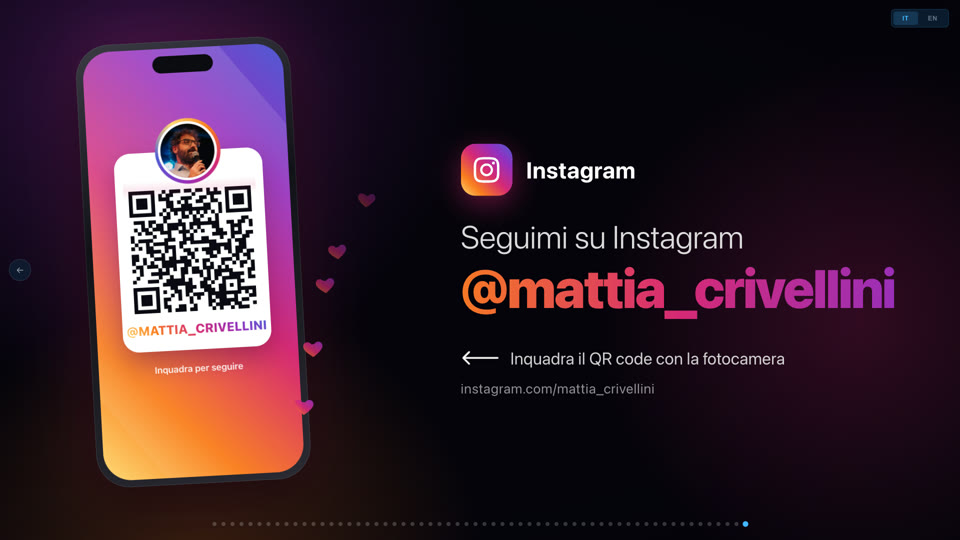
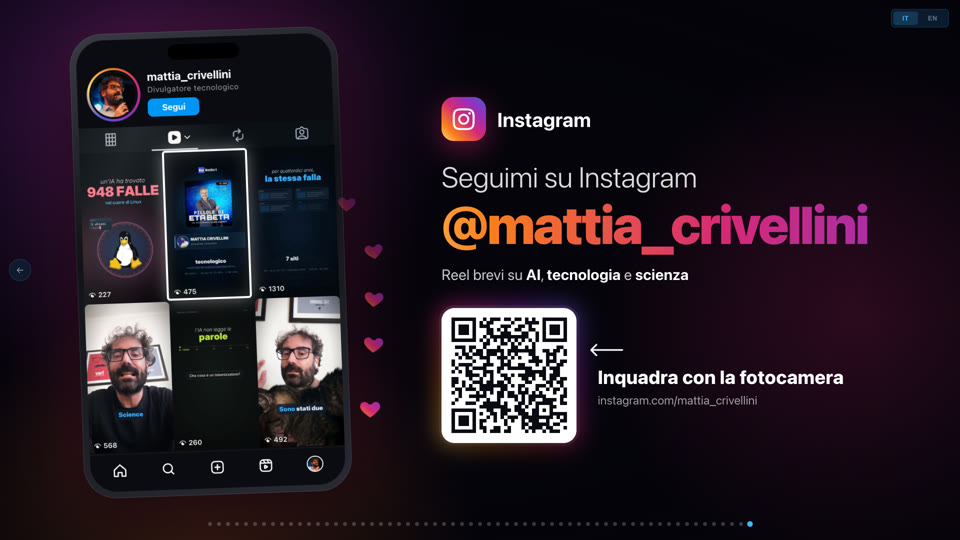
feat: slide Instagram con il profilo e i reel veri, QR code grande

diff --git a/instagram.html b/instagram.html
@@ -15,70 +15,92 @@
     /* ---------- Fondo: nebulose nei colori di Instagram che si muovono piano ---------- */
     .blob { position: fixed; border-radius: 50%; pointer-events: none; z-index: 0; opacity: 0.55; }
     .b1 { width: 70vw; height: 70vw; left: -22vw; top: -30vw; background: radial-gradient(closest-side, rgba(150,47,191,0.55), transparent); animation: drift1 22s ease-in-out infinite alternate; }
-    .b2 { width: 60vw; height: 60vw; left: -10vw; bottom: -34vw; background: radial-gradient(closest-side, rgba(250,126,30,0.45), transparent); animation: drift2 26s ease-in-out infinite alternate; }
-    .b3 { width: 55vw; height: 55vw; right: -18vw; top: 10vh; background: radial-gradient(closest-side, rgba(214,41,118,0.42), transparent); animation: drift3 24s ease-in-out infinite alternate; }
+    .b2 { width: 60vw; height: 60vw; left: -10vw; bottom: -34vw; background: radial-gradient(closest-side, rgba(250,126,30,0.42), transparent); animation: drift2 26s ease-in-out infinite alternate; }
+    .b3 { width: 55vw; height: 55vw; right: -18vw; top: 10vh; background: radial-gradient(closest-side, rgba(214,41,118,0.40), transparent); animation: drift3 24s ease-in-out infinite alternate; }
     @keyframes drift1 { to { transform: translate(8vw, 10vh) scale(1.1); } }
     @keyframes drift2 { to { transform: translate(10vw, -8vh) scale(0.92); } }
     @keyframes drift3 { to { transform: translate(-8vw, 6vh) scale(1.12); } }
-    .grain { position: fixed; inset: 0; z-index: 0; pointer-events: none; opacity: 0.5;
+    .vignette { position: fixed; inset: 0; z-index: 0; pointer-events: none;
       background: radial-gradient(120% 90% at 30% 50%, transparent 40%, rgba(5,3,11,0.85) 100%); }
 
-    /* ---------- Telefono con la schermata «QR code» del profilo ---------- */
-    .stage { position: fixed; z-index: 2; left: 9vw; top: 50%; transform: translateY(-50%); height: 82vh; aspect-ratio: 9 / 18.6; }
-    .phone { position: absolute; inset: 0; border-radius: 6.2vh; padding: 1.25vh;
+    /* ---------- Telefono con il profilo e i reel veri ---------- */
+    .stage { position: fixed; z-index: 2; left: 8vw; top: 50%; transform: translateY(-50%); height: 86vh; aspect-ratio: 9 / 15.6; }
+    .phone { position: absolute; inset: 0; border-radius: 6vh; padding: 1.2vh;
       background: linear-gradient(160deg, #3a3a44, #121218 40%, #2a2a33);
-      box-shadow: 0 4vh 10vh rgba(0,0,0,0.6), 0 0 0 1px rgba(255,255,255,0.12) inset, 0 0 12vh rgba(214,41,118,0.28);
+      box-shadow: 0 4vh 10vh rgba(0,0,0,0.6), 0 0 0 1px rgba(255,255,255,0.12) inset, 0 0 14vh rgba(214,41,118,0.30);
       animation: phoneIn 1.4s var(--ease) both, float 7s ease-in-out 1.4s infinite; }
-    @keyframes phoneIn { from { opacity: 0; transform: translateY(8vh) rotate(-8deg) scale(0.92); } to { opacity: 1; transform: rotate(-4deg); } }
-    @keyframes float { 0%, 100% { transform: rotate(-4deg) translateY(0); } 50% { transform: rotate(-3deg) translateY(-1.6vh); } }
-    .screen { position: relative; width: 100%; height: 100%; border-radius: 5.2vh; overflow: hidden; background: var(--ig);
-      display: flex; flex-direction: column; align-items: center; justify-content: center; }
-    .screen::before { content: ''; position: absolute; inset: -30%; background: conic-gradient(from 0deg, rgba(255,255,255,0.0), rgba(255,255,255,0.18), rgba(255,255,255,0)); animation: spin 14s linear infinite; }
-    .notch { position: absolute; top: 1.4vh; left: 50%; transform: translateX(-50%); width: 30%; height: 3.2vh; border-radius: 2vh; background: #0b0b10; z-index: 3; }
-    .card { position: relative; z-index: 2; width: 74%; background: #fff; border-radius: 3vh; padding: 7vh 2.4vh 2.6vh;
-      display: flex; flex-direction: column; align-items: center; box-shadow: 0 2vh 5vh rgba(60,0,60,0.35);
-      animation: cardIn 1s var(--ease) 0.7s both; }
-    @keyframes cardIn { from { opacity: 0; transform: translateY(3vh) scale(0.94); } to { opacity: 1; transform: none; } }
-    .avatar { position: absolute; top: -5.5vh; left: 50%; transform: translateX(-50%); width: 11vh; height: 11vh; border-radius: 50%; }
-    .avatar::before { content: ''; position: absolute; inset: -0.55vh; border-radius: 50%; background: conic-gradient(var(--ig1), var(--ig2), var(--ig3), var(--ig4), var(--ig5), var(--ig1)); animation: spin 6s linear infinite; }
-    .avatar img { position: relative; width: 100%; height: 100%; border-radius: 50%; object-fit: cover; border: 0.5vh solid #fff; display: block; box-sizing: border-box; }
-    .qr { position: relative; width: 100%; aspect-ratio: 1; }
-    .qr img { width: 100%; height: 100%; display: block; image-rendering: pixelated; }
-    .qr .scan { position: absolute; left: -4%; right: -4%; height: 14%; top: 0;
-      background: linear-gradient(180deg, rgba(214,41,118,0), rgba(214,41,118,0.14) 50%, rgba(214,41,118,0));
-      animation: scan 3.2s ease-in-out 2s infinite; opacity: 0; }
-    @keyframes scan { 0% { top: -10%; opacity: 0; } 15% { opacity: 1; } 85% { opacity: 1; } 100% { top: 96%; opacity: 0; } }
-    .card .h { margin-top: 1.8vh; font-size: 2.35vh; font-weight: 800; letter-spacing: 0.02em; text-transform: uppercase;
-      background: var(--ig); -webkit-background-clip: text; background-clip: text; -webkit-text-fill-color: transparent; color: transparent; white-space: nowrap; }
-    .screen .hint { position: relative; z-index: 2; margin-top: 2.4vh; font-size: 1.7vh; font-weight: 600; color: rgba(255,255,255,0.92); }
+    @keyframes phoneIn { from { opacity: 0; transform: translateY(8vh) rotate(-7deg) scale(0.92); } to { opacity: 1; transform: rotate(-3deg); } }
+    @keyframes float { 0%, 100% { transform: rotate(-3deg) translateY(0); } 50% { transform: rotate(-2deg) translateY(-1.4vh); } }
+    .screen { position: relative; width: 100%; height: 100%; border-radius: 5vh; overflow: hidden; background: #0b0c12;
+      display: flex; flex-direction: column; }
+    .notch { position: absolute; top: 1.2vh; left: 50%; transform: translateX(-50%); width: 28%; height: 2.9vh; border-radius: 2vh; background: #000; z-index: 3; }
+
+    /* intestazione del profilo */
+    .profile { padding: 5.6vh 2.2vh 1.6vh; display: grid; grid-template-columns: auto 1fr; gap: 0.6vh 1.8vh; align-items: center;
+      animation: fadeIn 0.8s ease 0.8s both; }
+    .avatar { grid-row: span 2; position: relative; width: 9vh; height: 9vh; border-radius: 50%; }
+    .avatar::before { content: ''; position: absolute; inset: -0.45vh; border-radius: 50%;
+      background: conic-gradient(var(--ig1), var(--ig2), var(--ig3), var(--ig4), var(--ig5), var(--ig1)); animation: spin 6s linear infinite; }
+    .avatar img { position: relative; width: 100%; height: 100%; border-radius: 50%; object-fit: cover; border: 0.45vh solid #0b0c12; box-sizing: border-box; display: block; }
+    .who b { display: block; font-size: 2.1vh; font-weight: 700; }
+    .who small { display: block; margin-top: 0.3vh; font-size: 1.45vh; color: rgba(255,255,255,0.6); letter-spacing: 0.04em; }
+    .follow-btn { justify-self: start; padding: 0.7vh 2.6vh; border-radius: 1vh; background: #0095f6; font-size: 1.6vh; font-weight: 700;
+      animation: pulse 2.4s ease-in-out 2.4s infinite; }
+    @keyframes pulse { 0%, 100% { box-shadow: 0 0 0 0 rgba(0,149,246,0.6); } 50% { box-shadow: 0 0 0 1vh rgba(0,149,246,0); } }
+
+    /* griglia dei reel (screenshot) con una selezione che passa da un reel all'altro */
+    .reels { position: relative; flex: none; width: 100%; aspect-ratio: 1320 / 1684; animation: rise 1s var(--ease) 1s both; }
+    .reels img { width: 100%; height: 100%; display: block; }
+    .pick { position: absolute; width: 33.33%; height: 46.1%; box-sizing: border-box; border: 0.4vh solid #fff; border-radius: 0.6vh;
+      box-shadow: 0 0 3vh rgba(255,255,255,0.45), inset 0 0 3vh rgba(255,255,255,0.18); opacity: 0;
+      transition: left 0.6s var(--ease), top 0.6s var(--ease), opacity 0.4s; }
+    .pick.on { opacity: 1; }
+    .shine { position: absolute; inset: 0; pointer-events: none;
+      background: linear-gradient(115deg, transparent 35%, rgba(255,255,255,0.10) 48%, transparent 60%);
+      background-size: 250% 100%; animation: shine 6s ease-in-out 2.5s infinite; }
+    @keyframes shine { from { background-position: 130% 0; } to { background-position: -30% 0; } }
+    /* barra in basso dell'app */
+    .tabbar { margin-top: auto; display: flex; justify-content: space-around; align-items: center; padding: 1.4vh 1vh 2.4vh;
+      border-top: 1px solid rgba(255,255,255,0.08); animation: fadeIn 0.8s ease 1.2s both; }
+    .tabbar svg { width: 2.8vh; height: 2.8vh; fill: none; stroke: #fff; stroke-width: 2; stroke-linecap: round; stroke-linejoin: round; }
+    .tabbar .me { width: 3vh; height: 3vh; border-radius: 50%; object-fit: cover; border: 0.25vh solid #fff; box-sizing: border-box; }
     @keyframes spin { to { transform: rotate(360deg); } }
+    @keyframes fadeIn { from { opacity: 0; } to { opacity: 1; } }
+    @keyframes rise { from { opacity: 0; transform: translateY(3vh); } to { opacity: 1; transform: none; } }
 
-    /* cuori che salgono dal telefono */
+    /* cuori che salgono accanto al telefono */
     .hearts { position: absolute; inset: 0; pointer-events: none; z-index: 3; }
-    .heart { position: absolute; bottom: 12%; width: 4.2vh; height: 4.2vh; opacity: 0; animation: rise 4.6s ease-out infinite; }
+    .heart { position: absolute; bottom: 12%; width: 4.2vh; height: 4.2vh; opacity: 0; animation: up-heart 4.6s ease-out infinite; }
     .heart svg { width: 100%; height: 100%; }
-    @keyframes rise { 0% { opacity: 0; transform: translate(0, 0) scale(0.4); } 12% { opacity: 1; transform: translate(0, -4vh) scale(1); }
-                      100% { opacity: 0; transform: translate(var(--dx), -62vh) scale(0.8) rotate(var(--rot)); } }
+    @keyframes up-heart { 0% { opacity: 0; transform: translate(0, 0) scale(0.4); } 12% { opacity: 1; transform: translate(0, -4vh) scale(1); }
+                          100% { opacity: 0; transform: translate(var(--dx), -62vh) scale(0.8) rotate(var(--rot)); } }
 
-    /* ---------- Testo a destra ---------- */
-    .side { position: fixed; z-index: 2; left: 48vw; right: 5vw; top: 50%; transform: translateY(-50%); }
-    .brand { display: flex; align-items: center; gap: 1.4vw; animation: up 0.9s var(--ease) 0.5s both; }
-    .glyph { width: clamp(56px, 5.4vw, 104px); height: clamp(56px, 5.4vw, 104px); border-radius: 28%; background: var(--ig);
+    /* ---------- Testo e QR a destra ---------- */
+    .side { position: fixed; z-index: 2; left: 46vw; right: 4.5vw; top: 50%; transform: translateY(-50%); }
+    .brand { display: flex; align-items: center; gap: 1.2vw; animation: up 0.9s var(--ease) 0.5s both; }
+    .glyph { width: clamp(50px, 4.6vw, 90px); height: clamp(50px, 4.6vw, 90px); border-radius: 28%; background: var(--ig);
       display: grid; place-items: center; box-shadow: 0 1.5vh 5vh rgba(214,41,118,0.45); }
     .glyph svg { width: 62%; height: 62%; fill: #fff; }
-    .brand span { font-size: clamp(22px, 2.4vw, 46px); font-weight: 700; letter-spacing: 0.01em; }
-    .follow { margin: 4vh 0 0; font-size: clamp(30px, 3.4vw, 64px); font-weight: 300; color: rgba(255,255,255,0.85); animation: up 0.9s var(--ease) 0.8s both; }
-    .handle { margin-top: 1vh; font-weight: 900; letter-spacing: -0.03em; line-height: 1;
-      font-size: min(5.6vw, 11vh); width: max-content; white-space: nowrap; padding-right: 0.05em; padding-bottom: 0.12em;
+    .brand span { font-size: clamp(20px, 2.1vw, 40px); font-weight: 700; }
+    .follow { margin: 3.4vh 0 0; font-size: clamp(28px, 3vw, 58px); font-weight: 300; color: rgba(255,255,255,0.85); animation: up 0.9s var(--ease) 0.8s both; }
+    .handle { margin-top: 0.8vh; font-weight: 900; letter-spacing: -0.03em; line-height: 1;
+      font-size: min(5.5vw, 10.5vh); width: max-content; white-space: nowrap; padding-right: 0.05em; padding-bottom: 0.12em;
       background: linear-gradient(90deg, #feda75, #fa7e1e 18%, #d62976 45%, #962fbf 72%, #4f5bd5 100%);
       background-size: 200% 100%; -webkit-background-clip: text; background-clip: text; -webkit-text-fill-color: transparent; color: transparent;
       animation: up 1s var(--ease) 1s both, sheen 8s ease-in-out 2s infinite alternate; }
     @keyframes sheen { to { background-position: 100% 0; } }
-    .scanme { margin-top: 5vh; display: flex; align-items: center; gap: 1.2vw; font-size: clamp(18px, 1.8vw, 34px); color: rgba(255,255,255,0.8);
-      animation: up 0.9s var(--ease) 1.4s both; }
-    .scanme .arrow { width: clamp(40px, 4vw, 76px); height: auto; stroke: #fff; animation: nudge 1.6s ease-in-out 2.4s infinite; }
-    @keyframes nudge { 0%, 100% { transform: translateX(0); } 50% { transform: translateX(-1vw); } }
-    .url { margin-top: 2.2vh; font-size: clamp(16px, 1.45vw, 28px); color: rgba(255,255,255,0.55); letter-spacing: 0.02em; animation: up 0.9s var(--ease) 1.6s both; }
+    .about { margin-top: 1.6vh; font-size: clamp(16px, 1.6vw, 30px); color: rgba(255,255,255,0.78); animation: up 0.9s var(--ease) 1.2s both; }
+    .about b { color: #fff; }
+
+    .scan { margin-top: 4.6vh; display: flex; align-items: center; gap: 2.2vw; animation: up 0.9s var(--ease) 1.5s both; }
+    .qrcard { position: relative; flex: none; width: 25vh; height: 25vh; padding: 1.8vh; box-sizing: border-box; background: #fff; border-radius: 2.4vh;
+      box-shadow: 0 2vh 6vh rgba(0,0,0,0.5), 0 0 0 0.5vh rgba(255,255,255,0.08); }
+    .qrcard::before { content: ''; position: absolute; inset: -0.6vh; border-radius: 2.9vh; background: var(--ig); z-index: -1; filter: blur(2vh); opacity: 0.6; }
+    .qrcard img { width: 100%; height: 100%; display: block; image-rendering: pixelated; }
+    .scan .txt b { display: block; font-size: clamp(20px, 2vw, 38px); font-weight: 800; }
+    .scan .txt span { display: block; margin-top: 1vh; font-size: clamp(14px, 1.3vw, 24px); color: rgba(255,255,255,0.6); }
+    .scan .arrow { display: block; margin-bottom: 1.6vh; width: clamp(40px, 3.6vw, 70px); stroke: #fff; animation: nudge 1.6s ease-in-out 2.4s infinite; }
+    @keyframes nudge { 0%, 100% { transform: translateX(0); } 50% { transform: translateX(-0.9vw); } }
 
     @keyframes up { from { opacity: 0; transform: translateY(22px); } to { opacity: 1; transform: none; } }
     @media (prefers-reduced-motion: reduce) { *, *::before, *::after { animation: none !important; } .heart { display: none; } }
@@ -86,18 +108,29 @@
 </head>
 <body>
   <div class="blob b1"></div><div class="blob b2"></div><div class="blob b3"></div>
-  <div class="grain"></div>
+  <div class="vignette"></div>
 
   <div class="stage">
     <div class="phone">
       <div class="screen">
         <div class="notch"></div>
-        <div class="card">
+        <div class="profile">
           <div class="avatar"><img src="img/instagram/avatar.jpg" alt="" /></div>
-          <div class="qr"><img src="img/instagram/qr-mattia-crivellini.svg" alt="QR code del profilo Instagram @mattia_crivellini" /><span class="scan"></span></div>
-          <div class="h">@mattia_crivellini</div>
+          <div class="who"><b>mattia_crivellini</b><small id="role">Divulgatore tecnologico</small></div>
+          <div class="follow-btn" id="followbtn">Segui</div>
         </div>
-        <div class="hint" id="hint">Inquadra per seguire</div>
+        <div class="reels" id="reels">
+          <img src="img/instagram/reels.jpg" alt="I reel del profilo Instagram di Mattia Crivellini" />
+          <div class="pick" id="pick"></div>
+          <div class="shine"></div>
+        </div>
+        <div class="tabbar">
+          <svg viewBox="0 0 24 24"><path d="M3 11 12 3l9 8v10h-6v-6H9v6H3z"/></svg>
+          <svg viewBox="0 0 24 24"><circle cx="11" cy="11" r="7"/><path d="m20 20-4-4"/></svg>
+          <svg viewBox="0 0 24 24"><rect x="3" y="3" width="18" height="18" rx="5"/><path d="M12 8v8M8 12h8"/></svg>
+          <svg viewBox="0 0 24 24"><rect x="3" y="3" width="18" height="18" rx="5"/><path d="M3 8h18M8 3l3 5M14 3l3 5M10 11.5v5l4.5-2.5z"/></svg>
+          <img class="me" src="img/instagram/avatar.jpg" alt="" />
+        </div>
       </div>
     </div>
     <div class="hearts" id="hearts"></div>
@@ -110,11 +143,16 @@
     </div>
     <div class="follow" id="follow">Seguimi su Instagram</div>
     <div class="handle">@mattia_crivellini</div>
-    <div class="scanme">
-      <svg class="arrow" viewBox="0 0 64 24" fill="none" stroke-width="3" stroke-linecap="round" stroke-linejoin="round"><path d="M62 12H4M14 2 4 12l10 10"/></svg>
-      <span id="scanme">Inquadra il QR code con la fotocamera</span>
+    <div class="about" id="about">Reel brevi su <b>AI</b>, <b>tecnologia</b> e <b>scienza</b></div>
+
+    <div class="scan">
+      <div class="qrcard"><img src="img/instagram/qr-mattia-crivellini.svg" alt="QR code del profilo Instagram @mattia_crivellini" /></div>
+      <div class="txt">
+        <svg class="arrow" viewBox="0 0 64 24" fill="none" stroke-width="3" stroke-linecap="round" stroke-linejoin="round"><path d="M62 12H4M14 2 4 12l10 10"/></svg>
+        <b id="scanme">Inquadra con la fotocamera</b>
+        <span>instagram.com/mattia_crivellini</span>
+      </div>
     </div>
-    <div class="url">instagram.com/mattia_crivellini</div>
   </div>
 
   <div id="nav-dots"></div>
@@ -129,32 +167,48 @@
   <script src="js/common.js"></script>
   <script>
     const TXT = {
-      it: { follow: 'Seguimi su Instagram', scanme: 'Inquadra il QR code con la fotocamera', hint: 'Inquadra per seguire' },
-      en: { follow: 'Follow me on Instagram', scanme: 'Scan the QR code with your camera', hint: 'Scan to follow' }
+      it: { follow: 'Seguimi su Instagram', scanme: 'Inquadra con la fotocamera', followbtn: 'Segui', role: 'Divulgatore tecnologico',
+            about: 'Reel brevi su <b>AI</b>, <b>tecnologia</b> e <b>scienza</b>' },
+      en: { follow: 'Follow me on Instagram', scanme: 'Scan with your camera', followbtn: 'Follow', role: 'Tech communicator',
+            about: 'Short reels on <b>AI</b>, <b>technology</b> and <b>science</b>' }
     };
-    function renderTexts() { Object.entries(TXT[lang]).forEach(([id, t]) => { document.getElementById(id).textContent = t; }); }
+    function renderTexts() {
+      const t = TXT[lang];
+      ['follow', 'scanme', 'followbtn', 'role'].forEach(id => { document.getElementById(id).textContent = t[id]; });
+      document.getElementById('about').innerHTML = t.about;
+    }
     function onLangChange() { renderTexts(); }
 
-    // cuori che salgono, a ritmo sfalsato
+    // cuori che salgono dal bordo destro del telefono
     const HEART = '<svg viewBox="0 0 24 24"><defs><linearGradient id="hg" x1="0" y1="1" x2="1" y2="0"><stop offset="0" stop-color="#fa7e1e"/><stop offset=".5" stop-color="#d62976"/><stop offset="1" stop-color="#962fbf"/></linearGradient></defs><path fill="url(#hg)" d="M12 21s-7.5-4.6-10-9.3C.4 8.5 2.2 4.5 6 4.5c2.2 0 3.6 1.3 4.4 2.5h3.2c.8-1.2 2.2-2.5 4.4-2.5 3.8 0 5.6 4 4 7.2C19.5 16.4 12 21 12 21z"/></svg>';
     const hearts = document.getElementById('hearts');
     for (let i = 0; i < 9; i++) {
       const h = document.createElement('span');
       h.className = 'heart'; h.innerHTML = HEART;
-      h.style.left = (96 + Math.random() * 22) + '%';
+      h.style.left = (100 + Math.random() * 10) + '%';
       h.style.animationDelay = (2 + i * 0.52 + Math.random() * 0.3).toFixed(2) + 's';
-      h.style.setProperty('--dx', (Math.random() * 16 - 4).toFixed(1) + 'vw');
+      h.style.setProperty('--dx', (Math.random() * 6 - 3).toFixed(1) + 'vw');
       h.style.setProperty('--rot', (Math.random() * 40 - 20).toFixed(0) + 'deg');
       hearts.appendChild(h);
+    }
+
+    // una cornice passa da un reel all'altro, come scorrendo il profilo
+    // (righe dei reel nello screenshot: dopo la barra delle schede, due file da tre)
+    const CELLS = [[0, 7.7], [33.33, 7.7], [66.67, 7.7], [0, 53.9], [33.33, 53.9], [66.67, 53.9]];
+    const pick = document.getElementById('pick');
+    let c = 0;
+    function step() {
+      const [x, y] = CELLS[c]; pick.style.left = x + '%'; pick.style.top = y + '%'; pick.classList.add('on');
+      c = (c + 1) % CELLS.length;
     }
 
     initLangToggle();
     renderTexts();
     initNav();
 
-    // ?t=… blocca le animazioni a quell'istante (miniature)
-    const T = parseFloat(new URLSearchParams(location.search).get('t'));
-    if (isFinite(T)) document.getAnimations().forEach(a => { a.pause(); a.currentTime = T * 1000; });
+    const T = parseFloat(new URLSearchParams(location.search).get('t'));   // ?t=… per le miniature
+    if (isFinite(T)) { document.getAnimations().forEach(a => { a.pause(); a.currentTime = T * 1000; }); c = 1; step(); }
+    else setTimeout(() => { step(); setInterval(step, 1800); }, 2600);
   </script>
 </body>
 </html>
